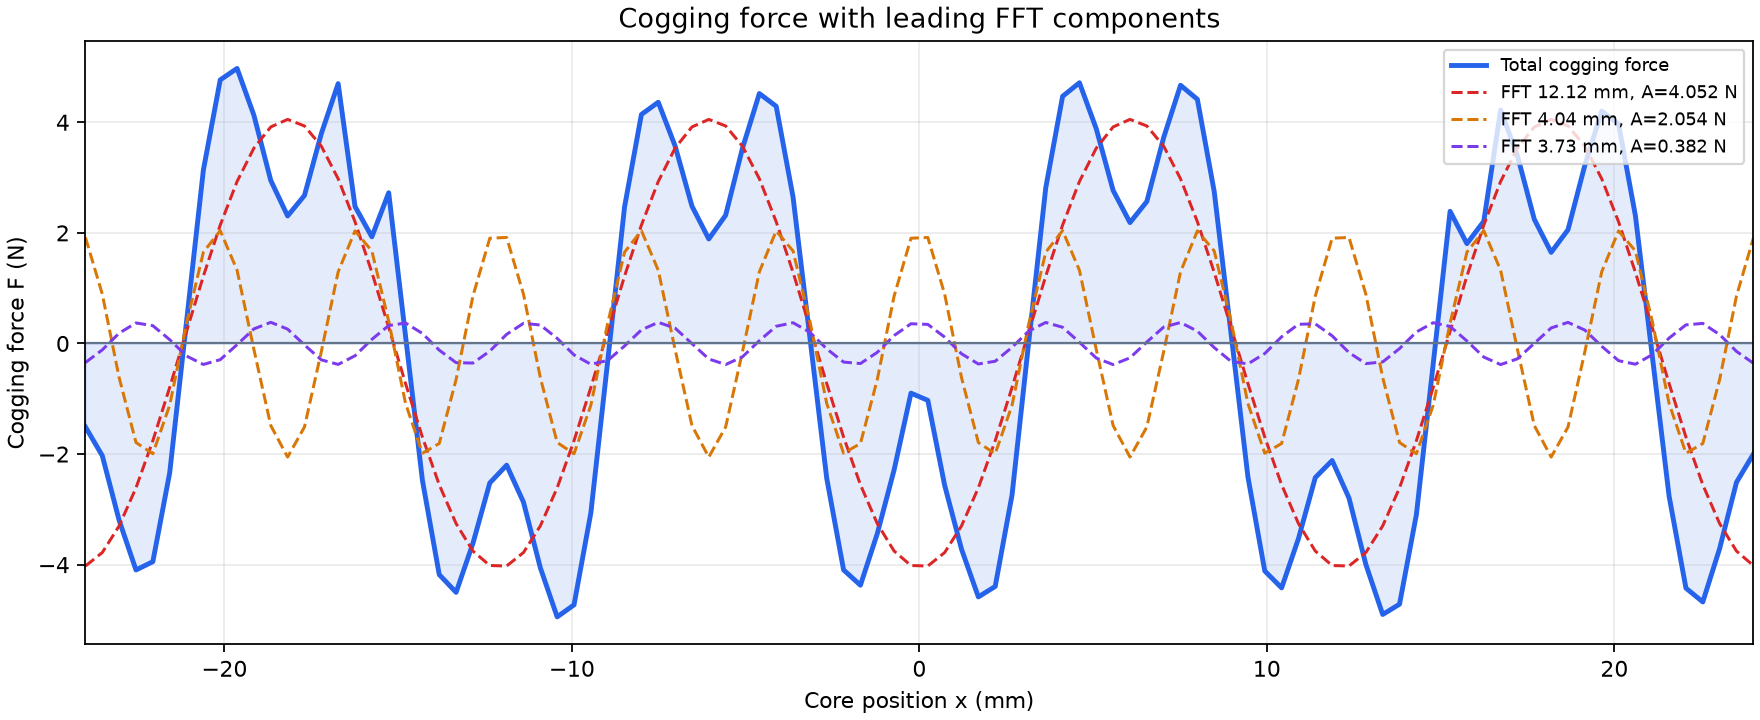
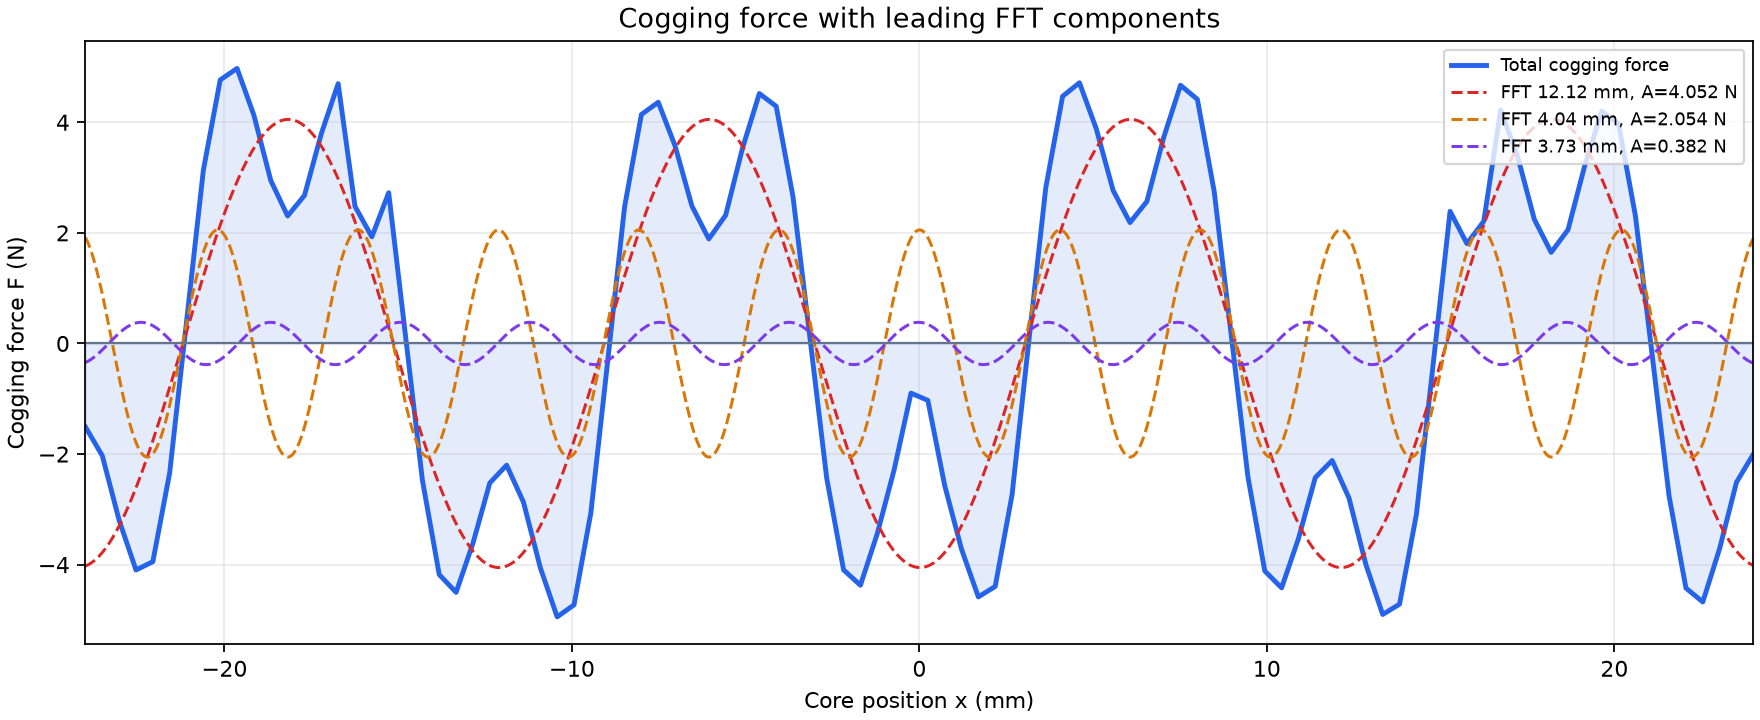
fix: smooth FFT component rendering

diff --git a/cogging_fdm.py b/cogging_fdm.py
@@ -328,15 +328,16 @@ if ANIMATE:
         force_fft = np.fft.rfft(force_samples - force_samples.mean())
         component_indexes = np.argsort(np.abs(force_fft[1:]))[-3:] + 1
         component_indexes = component_indexes[np.argsort(np.abs(force_fft[component_indexes]))[::-1]]
-        sample_indexes = np.arange(len(force_samples))
+        display_positions = np.linspace(sample_positions[0], sample_positions[-1], 1000)
+        display_indexes = (display_positions - sample_positions[0]) / (sample_positions[1] - sample_positions[0])
         sample_step = sample_positions[1] - sample_positions[0]
         component_colors = ("#dc2626", "#d97706", "#7c3aed")
         for component_index, color in zip(component_indexes, component_colors):
             amplitude = 2 * abs(force_fft[component_index]) / len(force_samples)
             phase = np.angle(force_fft[component_index])
-            component = amplitude * np.cos(2 * np.pi * component_index * sample_indexes / len(force_samples) + phase)
+            component = amplitude * np.cos(2 * np.pi * component_index * display_indexes / len(force_samples) + phase)
             period_mm = sample_step * len(force_samples) / component_index
-            curve_axis.plot(sample_positions, component, "--", color=color, linewidth=1.35, label=f"FFT {period_mm:.2f} mm, A={amplitude:.3f} N")
+            curve_axis.plot(display_positions, component, "--", color=color, linewidth=1.35, label=f"FFT {period_mm:.2f} mm, A={amplitude:.3f} N")
         curve_axis.axhline(0.0, color="#64748b", linewidth=1)
         curve_axis.set(title="Cogging force with leading FFT components", xlabel="Core position x (mm)", ylabel="Cogging force F (N)", xlim=(-24, 24))
         curve_axis.grid(alpha=0.25)
